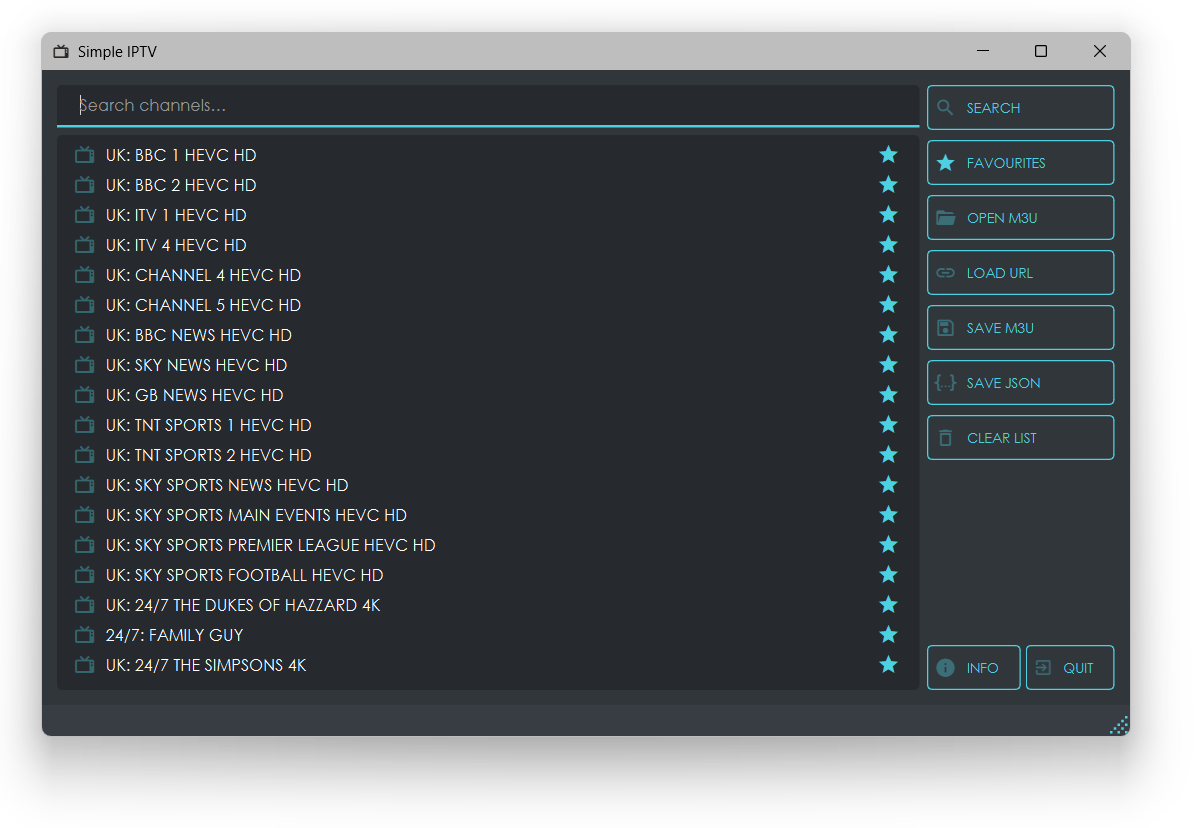
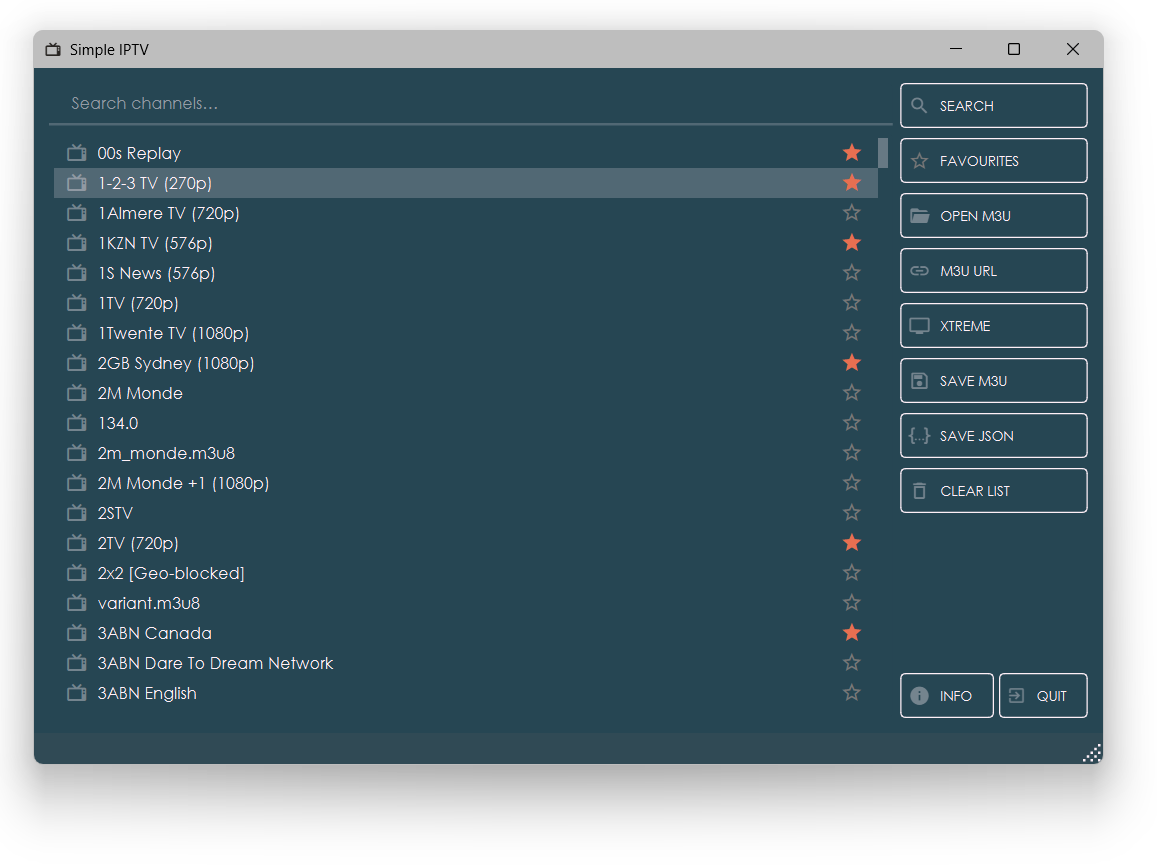
Just minor tweaks, nicer default theme.

diff --git a/simple-iptv.py b/simple-iptv.py
@@ -13,6 +13,8 @@ import json
 import subprocess
 import configparser
 import requests
+import random
+from time import sleep
 from pathlib import Path
 from urllib.parse import urlparse, parse_qs
 from fake_useragent import UserAgent
@@ -49,6 +51,7 @@ APP_ICON         = config.get('config', 'app_icon', fallback='mdi.television')
 APP_ICON_COLOR   = config.get('config', 'app_icon_color', fallback='white')
 PLAYLIST_ICON    = config.get('config', 'playlist_icon', fallback='mdi.television-guide')
 APP_THEME        = config.get('config', 'app_theme', fallback='dark_teal.xml')
+RANDOM_THEME     = config.getboolean('config', 'random_theme', fallback=False)
 APP_FONT         = config.get('config', 'app_font', fallback='Segoe UI')
 APP_FONT_SIZE    = config.get('config', 'app_font_size', fallback='9pt')
 STAR_COLOR       = config.get('themes', str(APP_THEME), fallback='#FFCA28')
@@ -59,7 +62,24 @@ APP_WIDTH        = config.getint('config', 'app_width', fallback=480)
 FULLSCREEN       = config.getboolean('config', 'fullscreen', fallback=False)
 MINIMISE         = config.getboolean('config', 'minimise', fallback=False)
 
-# ------- Xtream config (move out) --------------
+# ------- Random theme --------------------------
+thm = {
+        '1': "theme.xml",
+        '2': "dark_amber.xml",
+        '3': "dark_blue.xml",
+        '4': "dark_cyan.xml",
+        '5': "dark_lightgreen.xml",
+        '6': "dark_pink.xml",
+        '7': "dark_purple.xml",
+        '8': "dark_red.xml",
+        '9': "dark_teal.xml",
+        '10': "dark_yellow.xml"
+        }
+if RANDOM_THEME:
+    APP_THEME = random.choice(list(thm.values()))
+    STAR_COLOR = config.get('themes', str(APP_THEME), fallback='#FFCA28')
+
+# ------- Xtream config -------------------------
 IPTV_NAME        = config.get('xtream', 'IPTV_NAME')
 IPTV_URL         = config.get('xtream', 'IPTV_URL')
 IPTV_USER        = config.get('xtream', 'IPTV_USER')
@@ -687,6 +707,7 @@ class M3UPlayer(QMainWindow):
             else:
                 subprocess.Popen(["mpv", *MPV_ARGS, url])
             if MINIMISE:
+                sleep(5)
                 self.showMinimized()
 
         except FileNotFoundError:
@@ -696,9 +717,7 @@ class M3UPlayer(QMainWindow):
         msg = QMessageBox(self)
         msg.setWindowTitle("Info")
         msg.setText(INFO)
-        msg.setStyleSheet(BUTTON_STYLE)
         msg.setStandardButtons(QMessageBox.StandardButton.Ok)
-
         for btn in msg.findChildren(QPushButton):
             btn.setCursor(Qt.PointingHandCursor)
             btn.setMinimumWidth(100)
